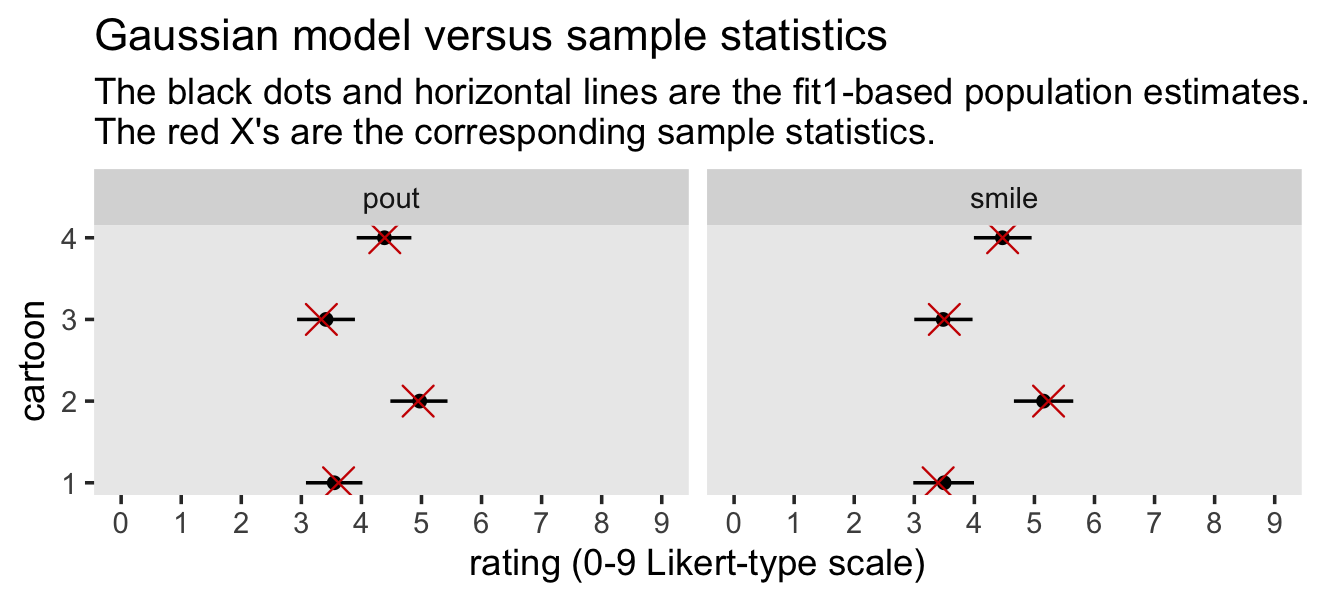
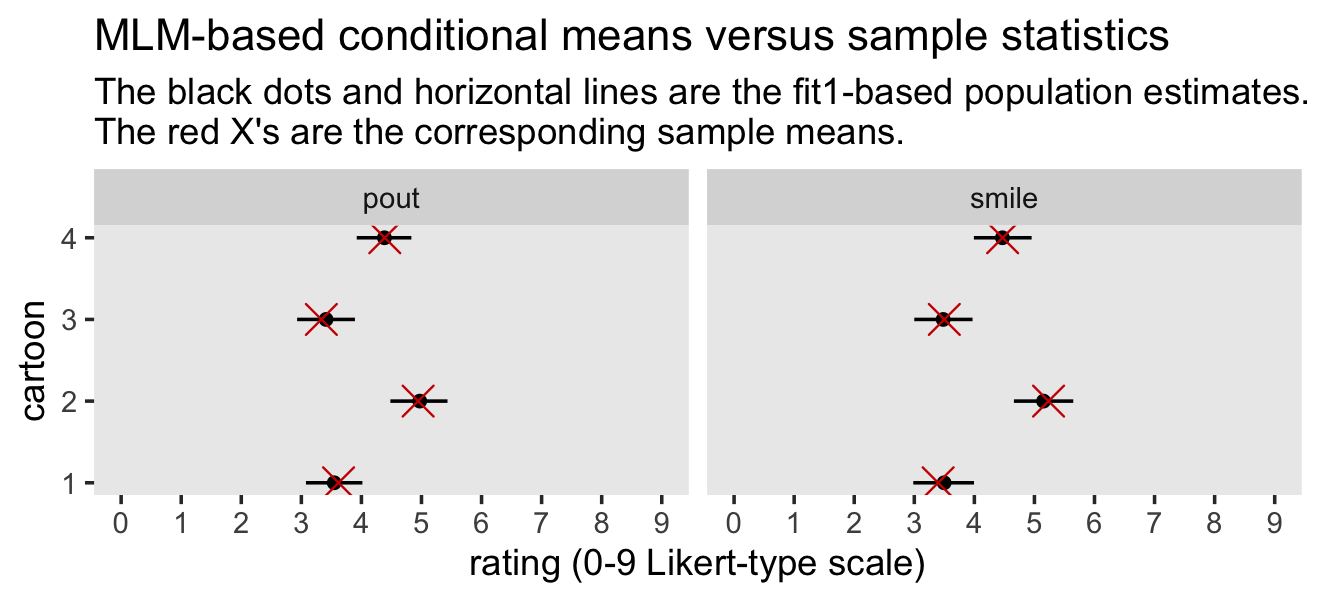
minor prose/code edits

Changed region(s): [[0.0621, 0.03, 0.9008, 0.09], [0.5902, 0.18, 0.7144, 0.24]]

diff --git a/sketches/Wagenmakers-et-al--2016--Albohn-only.md b/sketches/Wagenmakers-et-al--2016--Albohn-only.md
@@ -1,7 +1,7 @@
 Wagenmakers et al (2016), Albohn only
 ================
 A Solomon Kurz
-2022-06-21
+2022-06-22
 
 Using a registered replication report approach, Wagenmakers and
 colleagues (2016; <https://doi.org/10.1177/1745691616674458>) replicated
@@ -9,8 +9,11 @@ Study 1 from the highly-cited paper by Strack, Martin, and Stepper
 (1988; <https://doi.org/10.1037/0022-3514.54.5.768>). In 17 labs across
 several countries, participants were randomized into the *pout* or
 *smile* conditions. The primary variable is the ratings on 4
-moderately-funny cartoons. For the sake of this file, we will analyze
-the data from one of the labs.
+moderately-funny cartoons. Within our experimental design framework, we
+can think of this as a posttest-only two-group design.
+
+For the sake of this file, we will analyze the data from one of the
+labs.
 
 ## Data
 
@@ -72,7 +75,8 @@ glimpse(wagenmakers2016)
 
 The full `wagenmakers2016` data set contains data from 17 reserach labs.
 In this file, we’ll focus on the data collected by the Albohn lab. Here
-we filter the `wagenmakers2016` and save the results as `albohn`.
+we subset the `wagenmakers2016` data frame and save the results as
+`albohn`.
 
 ``` r
 albohn <- wagenmakers2016 %>% 
@@ -106,7 +110,7 @@ albohn <- albohn %>%
   # n = 140 (drop 11 who were 0)
   filter(correct_total > 2)
 
-# new sample size
+# new sample size, by condition
 albohn %>% 
   count(condition)
 ```
@@ -189,8 +193,6 @@ albohn %>%
             n_missing = sum(is.na(rating)))
 ```
 
-    ## `summarise()` has grouped output by 'condition'. You can override using the `.groups` argument.
-
     ## # A tibble: 8 × 8
     ## # Groups:   condition [2]
     ##   condition cartoon  mean    sd   min   max     n n_missing
@@ -204,7 +206,8 @@ albohn %>%
     ## 7         1       3  3.5   2.12     0     8    68         0
     ## 8         1       4  4.47  2.15     0     9    68         0
 
-To get a sense of the participant-level variation in these, we’ll plot.
+To get a sense of the participant- and condition-level variation in
+these, we’ll plot.
 
 ``` r
 albohn %>% 
@@ -233,13 +236,13 @@ So some of the challenges for these data are:
 
 ## Modeling strategy
 
-In this lesson, we’ll explore two broad analytic strategies:
+In this file, we’ll explore two broad analytic strategies:
 
-1)  The first class of strategies will be to model the data as
+1)  The first class of strategies include modeling the data as
     approximately continuous with the conventional Gaussian likelihood.
     After first fitting a simple multilevel model, we will then expand
     to a full mixed-effects location and scale (MELSM) model.
-2)  The second class of strategies will be modeling the data as ordinal.
+2)  The second class of strategies include modeling the data as ordinal.
     After first fitting a multilevel cumulative probit model, we will
     then expand to a cumulative-probit variant of the MELSM.
 
@@ -259,7 +262,7 @@ with the model
 ![
 \\begin{align\*}
 \\text{rating}\_{ijk} & \\sim \\mathcal N(\\mu\_{ijk}, \\sigma\_\\epsilon) \\\\
-\\mu\_{ijk} & = \\beta_0 + \\beta_1 \\text{Condition}\_{ik} + u_i + v\_{0k} + v\_{1k} \\text{Condition}\_{ik} \\\\
+\\mu\_{ijk} & = \\beta_0 + \\beta_1 \\text{condition}\_{ik} + u_i + v\_{0k} + v\_{1k} \\text{condition}\_{ik} \\\\
 u_i & \\sim \\mathcal N(0, \\sigma_u) \\\\
 \\begin{bmatrix} v\_{0k} \\\\ v\_{1k} \\end{bmatrix} & \\sim \\mathcal N \\left ( 
   \\mathbf 0, \\mathbf{SRS}
@@ -267,10 +270,10 @@ u_i & \\sim \\mathcal N(0, \\sigma_u) \\\\
 \\mathbf S & = \\begin{bmatrix} \\sigma\_{0k} \\\\ 1 & \\sigma\_{1k} \\end{bmatrix} \\\\
 \\mathbf R & = \\begin{bmatrix} 1 \\\\ \\rho & 1 \\end{bmatrix},
 \\end{align\*}
-](https://latex.codecogs.com/png.image?%5Cdpi%7B110%7D&space;%5Cbg_white&space;%0A%5Cbegin%7Balign%2A%7D%0A%5Ctext%7Brating%7D_%7Bijk%7D%20%26%20%5Csim%20%5Cmathcal%20N%28%5Cmu_%7Bijk%7D%2C%20%5Csigma_%5Cepsilon%29%20%5C%5C%0A%5Cmu_%7Bijk%7D%20%26%20%3D%20%5Cbeta_0%20%2B%20%5Cbeta_1%20%5Ctext%7BCondition%7D_%7Bik%7D%20%2B%20u_i%20%2B%20v_%7B0k%7D%20%2B%20v_%7B1k%7D%20%5Ctext%7BCondition%7D_%7Bik%7D%20%5C%5C%0Au_i%20%26%20%5Csim%20%5Cmathcal%20N%280%2C%20%5Csigma_u%29%20%5C%5C%0A%5Cbegin%7Bbmatrix%7D%20v_%7B0k%7D%20%5C%5C%20v_%7B1k%7D%20%5Cend%7Bbmatrix%7D%20%26%20%5Csim%20%5Cmathcal%20N%20%5Cleft%20%28%20%0A%20%20%5Cmathbf%200%2C%20%5Cmathbf%7BSRS%7D%0A%20%20%5Cright%29%20%5C%5C%0A%5Cmathbf%20S%20%26%20%3D%20%5Cbegin%7Bbmatrix%7D%20%5Csigma_%7B0k%7D%20%5C%5C%201%20%26%20%5Csigma_%7B1k%7D%20%5Cend%7Bbmatrix%7D%20%5C%5C%0A%5Cmathbf%20R%20%26%20%3D%20%5Cbegin%7Bbmatrix%7D%201%20%5C%5C%20%5Crho%20%26%201%20%5Cend%7Bbmatrix%7D%2C%0A%5Cend%7Balign%2A%7D%0A "
+](https://latex.codecogs.com/png.image?%5Cdpi%7B110%7D&space;%5Cbg_white&space;%0A%5Cbegin%7Balign%2A%7D%0A%5Ctext%7Brating%7D_%7Bijk%7D%20%26%20%5Csim%20%5Cmathcal%20N%28%5Cmu_%7Bijk%7D%2C%20%5Csigma_%5Cepsilon%29%20%5C%5C%0A%5Cmu_%7Bijk%7D%20%26%20%3D%20%5Cbeta_0%20%2B%20%5Cbeta_1%20%5Ctext%7Bcondition%7D_%7Bik%7D%20%2B%20u_i%20%2B%20v_%7B0k%7D%20%2B%20v_%7B1k%7D%20%5Ctext%7Bcondition%7D_%7Bik%7D%20%5C%5C%0Au_i%20%26%20%5Csim%20%5Cmathcal%20N%280%2C%20%5Csigma_u%29%20%5C%5C%0A%5Cbegin%7Bbmatrix%7D%20v_%7B0k%7D%20%5C%5C%20v_%7B1k%7D%20%5Cend%7Bbmatrix%7D%20%26%20%5Csim%20%5Cmathcal%20N%20%5Cleft%20%28%20%0A%20%20%5Cmathbf%200%2C%20%5Cmathbf%7BSRS%7D%0A%20%20%5Cright%29%20%5C%5C%0A%5Cmathbf%20S%20%26%20%3D%20%5Cbegin%7Bbmatrix%7D%20%5Csigma_%7B0k%7D%20%5C%5C%201%20%26%20%5Csigma_%7B1k%7D%20%5Cend%7Bbmatrix%7D%20%5C%5C%0A%5Cmathbf%20R%20%26%20%3D%20%5Cbegin%7Bbmatrix%7D%201%20%5C%5C%20%5Crho%20%26%201%20%5Cend%7Bbmatrix%7D%2C%0A%5Cend%7Balign%2A%7D%0A "
 \begin{align*}
 \text{rating}_{ijk} & \sim \mathcal N(\mu_{ijk}, \sigma_\epsilon) \\
-\mu_{ijk} & = \beta_0 + \beta_1 \text{Condition}_{ik} + u_i + v_{0k} + v_{1k} \text{Condition}_{ik} \\
+\mu_{ijk} & = \beta_0 + \beta_1 \text{condition}_{ik} + u_i + v_{0k} + v_{1k} \text{condition}_{ik} \\
 u_i & \sim \mathcal N(0, \sigma_u) \\
 \begin{bmatrix} v_{0k} \\ v_{1k} \end{bmatrix} & \sim \mathcal N \left ( 
   \mathbf 0, \mathbf{SRS}
@@ -391,7 +394,7 @@ tibble(sd = seq(from = 0, to = 5, by = 0.05)) %>%
 
 <img src="Wagenmakers-et-al--2016--Albohn-only_files/figure-gfm/unnamed-chunk-10-2.png" width="432" />
 
-Notice the restricted range we showed for the
+Notice the restricted range in the plot for the
 ![\\sigma](https://latex.codecogs.com/png.image?%5Cdpi%7B110%7D&space;%5Cbg_white&space;%5Csigma "\sigma")
 prior. Based on [Popoviciu’s
 inequality](https://en.wikipedia.org/wiki/Popoviciu%27s_inequality_on_variances),
@@ -443,7 +446,7 @@ matrix. That would make the full model
 ![
 \\begin{align\*}
 \\text{rating}\_{ijk} & \\sim \\mathcal N(\\mu\_{ijk}, \\sigma\_\\epsilon) \\\\
-\\mu\_{ijk} & = \\beta_0 + \\beta_1 \\text{Condition}\_{ik} + u_i + v\_{0k} + v\_{1k} \\text{Condition}\_{ik} \\\\
+\\mu\_{ijk} & = \\beta_0 + \\beta_1 \\text{condition}\_{ik} + u_i + v\_{0k} + v\_{1k} \\text{condition}\_{ik} \\\\
 u_i & \\sim \\mathcal N(0, \\sigma_u) \\\\
 \\begin{bmatrix} v\_{0k} \\\\ v\_{1k} \\end{bmatrix} & \\sim \\mathcal N(\\mathbf 0, \\mathbf{SRS}) \\\\
 \\mathbf S & = \\begin{bmatrix} \\sigma\_{0k} \\\\ 1 & \\sigma\_{1k} \\end{bmatrix} \\\\
@@ -453,10 +456,10 @@ u_i & \\sim \\mathcal N(0, \\sigma_u) \\\\
 \\sigma\_\\epsilon, \\dots, \\sigma\_{1k} & \\sim \\operatorname{Exponential}(1 / 2.3) \\\\
 \\mathbf R & \\sim \\operatorname{LKJ}(2).
 \\end{align\*}
-](https://latex.codecogs.com/png.image?%5Cdpi%7B110%7D&space;%5Cbg_white&space;%0A%5Cbegin%7Balign%2A%7D%0A%5Ctext%7Brating%7D_%7Bijk%7D%20%26%20%5Csim%20%5Cmathcal%20N%28%5Cmu_%7Bijk%7D%2C%20%5Csigma_%5Cepsilon%29%20%5C%5C%0A%5Cmu_%7Bijk%7D%20%26%20%3D%20%5Cbeta_0%20%2B%20%5Cbeta_1%20%5Ctext%7BCondition%7D_%7Bik%7D%20%2B%20u_i%20%2B%20v_%7B0k%7D%20%2B%20v_%7B1k%7D%20%5Ctext%7BCondition%7D_%7Bik%7D%20%5C%5C%0Au_i%20%26%20%5Csim%20%5Cmathcal%20N%280%2C%20%5Csigma_u%29%20%5C%5C%0A%5Cbegin%7Bbmatrix%7D%20v_%7B0k%7D%20%5C%5C%20v_%7B1k%7D%20%5Cend%7Bbmatrix%7D%20%26%20%5Csim%20%5Cmathcal%20N%28%5Cmathbf%200%2C%20%5Cmathbf%7BSRS%7D%29%20%5C%5C%0A%5Cmathbf%20S%20%26%20%3D%20%5Cbegin%7Bbmatrix%7D%20%5Csigma_%7B0k%7D%20%5C%5C%201%20%26%20%5Csigma_%7B1k%7D%20%5Cend%7Bbmatrix%7D%20%5C%5C%0A%5Cmathbf%20R%20%26%20%3D%20%5Cbegin%7Bbmatrix%7D%201%20%5C%5C%20%5Crho%20%26%201%20%5Cend%7Bbmatrix%7D%20%5C%5C%0A%5Cbeta_0%20%26%20%5Csim%20%5Cmathcal%20N%284.4%2C%201%29%20%5C%5C%20%0A%5Cbeta_1%20%26%20%5Csim%20%5Cmathcal%20N%280%2C%201%29%20%5C%5C%20%0A%5Csigma_%5Cepsilon%2C%20%5Cdots%2C%20%5Csigma_%7B1k%7D%20%26%20%5Csim%20%5Coperatorname%7BExponential%7D%281%20%2F%202.3%29%20%5C%5C%0A%5Cmathbf%20R%20%26%20%5Csim%20%5Coperatorname%7BLKJ%7D%282%29.%0A%5Cend%7Balign%2A%7D%0A "
+](https://latex.codecogs.com/png.image?%5Cdpi%7B110%7D&space;%5Cbg_white&space;%0A%5Cbegin%7Balign%2A%7D%0A%5Ctext%7Brating%7D_%7Bijk%7D%20%26%20%5Csim%20%5Cmathcal%20N%28%5Cmu_%7Bijk%7D%2C%20%5Csigma_%5Cepsilon%29%20%5C%5C%0A%5Cmu_%7Bijk%7D%20%26%20%3D%20%5Cbeta_0%20%2B%20%5Cbeta_1%20%5Ctext%7Bcondition%7D_%7Bik%7D%20%2B%20u_i%20%2B%20v_%7B0k%7D%20%2B%20v_%7B1k%7D%20%5Ctext%7Bcondition%7D_%7Bik%7D%20%5C%5C%0Au_i%20%26%20%5Csim%20%5Cmathcal%20N%280%2C%20%5Csigma_u%29%20%5C%5C%0A%5Cbegin%7Bbmatrix%7D%20v_%7B0k%7D%20%5C%5C%20v_%7B1k%7D%20%5Cend%7Bbmatrix%7D%20%26%20%5Csim%20%5Cmathcal%20N%28%5Cmathbf%200%2C%20%5Cmathbf%7BSRS%7D%29%20%5C%5C%0A%5Cmathbf%20S%20%26%20%3D%20%5Cbegin%7Bbmatrix%7D%20%5Csigma_%7B0k%7D%20%5C%5C%201%20%26%20%5Csigma_%7B1k%7D%20%5Cend%7Bbmatrix%7D%20%5C%5C%0A%5Cmathbf%20R%20%26%20%3D%20%5Cbegin%7Bbmatrix%7D%201%20%5C%5C%20%5Crho%20%26%201%20%5Cend%7Bbmatrix%7D%20%5C%5C%0A%5Cbeta_0%20%26%20%5Csim%20%5Cmathcal%20N%284.4%2C%201%29%20%5C%5C%20%0A%5Cbeta_1%20%26%20%5Csim%20%5Cmathcal%20N%280%2C%201%29%20%5C%5C%20%0A%5Csigma_%5Cepsilon%2C%20%5Cdots%2C%20%5Csigma_%7B1k%7D%20%26%20%5Csim%20%5Coperatorname%7BExponential%7D%281%20%2F%202.3%29%20%5C%5C%0A%5Cmathbf%20R%20%26%20%5Csim%20%5Coperatorname%7BLKJ%7D%282%29.%0A%5Cend%7Balign%2A%7D%0A "
 \begin{align*}
 \text{rating}_{ijk} & \sim \mathcal N(\mu_{ijk}, \sigma_\epsilon) \\
-\mu_{ijk} & = \beta_0 + \beta_1 \text{Condition}_{ik} + u_i + v_{0k} + v_{1k} \text{Condition}_{ik} \\
+\mu_{ijk} & = \beta_0 + \beta_1 \text{condition}_{ik} + u_i + v_{0k} + v_{1k} \text{condition}_{ik} \\
 u_i & \sim \mathcal N(0, \sigma_u) \\
 \begin{bmatrix} v_{0k} \\ v_{1k} \end{bmatrix} & \sim \mathcal N(\mathbf 0, \mathbf{SRS}) \\
 \mathbf S & = \begin{bmatrix} \sigma_{0k} \\ 1 & \sigma_{1k} \end{bmatrix} \\
@@ -501,8 +504,8 @@ This would look like
 ![
 \\begin{align\*}
 \\text{rating}\_{ijk} & \\sim \\mathcal N(\\mu\_{ijk}, \\sigma) \\\\
-\\mu\_{ijk} & = \\beta_0 + \\beta_1 \\text{Condition}\_{ik} + u_i + v\_{0k} + v\_{1k} \\text{Condition}\_{ik} \\\\
-\\log(\\sigma\_{ijk}) & = \\eta_0 + \\eta_1 \\text{Condition}\_{ik} + w_i + x\_{0k} + x\_{1k} \\text{Condition}\_{ik} \\\\
+\\mu\_{ijk} & = \\beta_0 + \\beta_1 \\text{condition}\_{ik} + u_i + v\_{0k} + v\_{1k} \\text{condition}\_{ik} \\\\
+\\log(\\sigma\_{ijk}) & = \\eta_0 + \\eta_1 \\text{condition}\_{ik} + w_i + x\_{0k} + x\_{1k} \\text{condition}\_{ik} \\\\
 u_i & \\sim \\mathcal N(0, \\sigma_u) \\\\
 \\begin{bmatrix} v\_{0k} \\\\ v\_{1k} \\end{bmatrix} & \\sim \\mathcal N(\\mathbf 0, \\mathbf{S_vR_vS_v}) \\\\
 \\mathbf{S_v} & = \\begin{bmatrix} \\sigma\_{0k} \\\\ 1 & \\sigma\_{1k} \\end{bmatrix} \\\\
@@ -512,11 +515,11 @@ w_i & \\sim \\mathcal N(0, \\sigma_w) \\\\
 \\mathbf{S_x} & = \\begin{bmatrix} \\sigma\_{2k} \\\\ 1 & \\sigma\_{3k} \\end{bmatrix} \\\\
 \\mathbf{R_x} & = \\begin{bmatrix} 1 \\\\ \\rho_x & 1 \\end{bmatrix} \\\\
 \\end{align\*}
-](https://latex.codecogs.com/png.image?%5Cdpi%7B110%7D&space;%5Cbg_white&space;%0A%5Cbegin%7Balign%2A%7D%0A%5Ctext%7Brating%7D_%7Bijk%7D%20%26%20%5Csim%20%5Cmathcal%20N%28%5Cmu_%7Bijk%7D%2C%20%5Csigma%29%20%5C%5C%0A%5Cmu_%7Bijk%7D%20%26%20%3D%20%5Cbeta_0%20%2B%20%5Cbeta_1%20%5Ctext%7BCondition%7D_%7Bik%7D%20%2B%20u_i%20%2B%20v_%7B0k%7D%20%2B%20v_%7B1k%7D%20%5Ctext%7BCondition%7D_%7Bik%7D%20%5C%5C%0A%5Clog%28%5Csigma_%7Bijk%7D%29%20%26%20%3D%20%5Ceta_0%20%2B%20%5Ceta_1%20%5Ctext%7BCondition%7D_%7Bik%7D%20%2B%20w_i%20%2B%20x_%7B0k%7D%20%2B%20x_%7B1k%7D%20%5Ctext%7BCondition%7D_%7Bik%7D%20%5C%5C%0Au_i%20%26%20%5Csim%20%5Cmathcal%20N%280%2C%20%5Csigma_u%29%20%5C%5C%0A%5Cbegin%7Bbmatrix%7D%20v_%7B0k%7D%20%5C%5C%20v_%7B1k%7D%20%5Cend%7Bbmatrix%7D%20%26%20%5Csim%20%5Cmathcal%20N%28%5Cmathbf%200%2C%20%5Cmathbf%7BS_vR_vS_v%7D%29%20%5C%5C%0A%5Cmathbf%7BS_v%7D%20%26%20%3D%20%5Cbegin%7Bbmatrix%7D%20%5Csigma_%7B0k%7D%20%5C%5C%201%20%26%20%5Csigma_%7B1k%7D%20%5Cend%7Bbmatrix%7D%20%5C%5C%0A%5Cmathbf%7BR_v%7D%20%26%20%3D%20%5Cbegin%7Bbmatrix%7D%201%20%5C%5C%20%5Crho_v%20%26%201%20%5Cend%7Bbmatrix%7D%20%5C%5C%0Aw_i%20%26%20%5Csim%20%5Cmathcal%20N%280%2C%20%5Csigma_w%29%20%5C%5C%0A%5Cbegin%7Bbmatrix%7D%20x_%7B0k%7D%20%5C%5C%20x_%7B1k%7D%20%5Cend%7Bbmatrix%7D%20%26%20%5Csim%20%5Cmathcal%20N%28%5Cmathbf%200%2C%20%5Cmathbf%7BS_xR_xS_x%7D%29%20%5C%5C%0A%5Cmathbf%7BS_x%7D%20%26%20%3D%20%5Cbegin%7Bbmatrix%7D%20%5Csigma_%7B2k%7D%20%5C%5C%201%20%26%20%5Csigma_%7B3k%7D%20%5Cend%7Bbmatrix%7D%20%5C%5C%0A%5Cmathbf%7BR_x%7D%20%26%20%3D%20%5Cbegin%7Bbmatrix%7D%201%20%5C%5C%20%5Crho_x%20%26%201%20%5Cend%7Bbmatrix%7D%20%5C%5C%0A%5Cend%7Balign%2A%7D%0A "
+](https://latex.codecogs.com/png.image?%5Cdpi%7B110%7D&space;%5Cbg_white&space;%0A%5Cbegin%7Balign%2A%7D%0A%5Ctext%7Brating%7D_%7Bijk%7D%20%26%20%5Csim%20%5Cmathcal%20N%28%5Cmu_%7Bijk%7D%2C%20%5Csigma%29%20%5C%5C%0A%5Cmu_%7Bijk%7D%20%26%20%3D%20%5Cbeta_0%20%2B%20%5Cbeta_1%20%5Ctext%7Bcondition%7D_%7Bik%7D%20%2B%20u_i%20%2B%20v_%7B0k%7D%20%2B%20v_%7B1k%7D%20%5Ctext%7Bcondition%7D_%7Bik%7D%20%5C%5C%0A%5Clog%28%5Csigma_%7Bijk%7D%29%20%26%20%3D%20%5Ceta_0%20%2B%20%5Ceta_1%20%5Ctext%7Bcondition%7D_%7Bik%7D%20%2B%20w_i%20%2B%20x_%7B0k%7D%20%2B%20x_%7B1k%7D%20%5Ctext%7Bcondition%7D_%7Bik%7D%20%5C%5C%0Au_i%20%26%20%5Csim%20%5Cmathcal%20N%280%2C%20%5Csigma_u%29%20%5C%5C%0A%5Cbegin%7Bbmatrix%7D%20v_%7B0k%7D%20%5C%5C%20v_%7B1k%7D%20%5Cend%7Bbmatrix%7D%20%26%20%5Csim%20%5Cmathcal%20N%28%5Cmathbf%200%2C%20%5Cmathbf%7BS_vR_vS_v%7D%29%20%5C%5C%0A%5Cmathbf%7BS_v%7D%20%26%20%3D%20%5Cbegin%7Bbmatrix%7D%20%5Csigma_%7B0k%7D%20%5C%5C%201%20%26%20%5Csigma_%7B1k%7D%20%5Cend%7Bbmatrix%7D%20%5C%5C%0A%5Cmathbf%7BR_v%7D%20%26%20%3D%20%5Cbegin%7Bbmatrix%7D%201%20%5C%5C%20%5Crho_v%20%26%201%20%5Cend%7Bbmatrix%7D%20%5C%5C%0Aw_i%20%26%20%5Csim%20%5Cmathcal%20N%280%2C%20%5Csigma_w%29%20%5C%5C%0A%5Cbegin%7Bbmatrix%7D%20x_%7B0k%7D%20%5C%5C%20x_%7B1k%7D%20%5Cend%7Bbmatrix%7D%20%26%20%5Csim%20%5Cmathcal%20N%28%5Cmathbf%200%2C%20%5Cmathbf%7BS_xR_xS_x%7D%29%20%5C%5C%0A%5Cmathbf%7BS_x%7D%20%26%20%3D%20%5Cbegin%7Bbmatrix%7D%20%5Csigma_%7B2k%7D%20%5C%5C%201%20%26%20%5Csigma_%7B3k%7D%20%5Cend%7Bbmatrix%7D%20%5C%5C%0A%5Cmathbf%7BR_x%7D%20%26%20%3D%20%5Cbegin%7Bbmatrix%7D%201%20%5C%5C%20%5Crho_x%20%26%201%20%5Cend%7Bbmatrix%7D%20%5C%5C%0A%5Cend%7Balign%2A%7D%0A "
 \begin{align*}
 \text{rating}_{ijk} & \sim \mathcal N(\mu_{ijk}, \sigma) \\
-\mu_{ijk} & = \beta_0 + \beta_1 \text{Condition}_{ik} + u_i + v_{0k} + v_{1k} \text{Condition}_{ik} \\
-\log(\sigma_{ijk}) & = \eta_0 + \eta_1 \text{Condition}_{ik} + w_i + x_{0k} + x_{1k} \text{Condition}_{ik} \\
+\mu_{ijk} & = \beta_0 + \beta_1 \text{condition}_{ik} + u_i + v_{0k} + v_{1k} \text{condition}_{ik} \\
+\log(\sigma_{ijk}) & = \eta_0 + \eta_1 \text{condition}_{ik} + w_i + x_{0k} + x_{1k} \text{condition}_{ik} \\
 u_i & \sim \mathcal N(0, \sigma_u) \\
 \begin{bmatrix} v_{0k} \\ v_{1k} \end{bmatrix} & \sim \mathcal N(\mathbf 0, \mathbf{S_vR_vS_v}) \\
 \mathbf{S_v} & = \begin{bmatrix} \sigma_{0k} \\ 1 & \sigma_{1k} \end{bmatrix} \\
@@ -1039,8 +1042,8 @@ fitted(fit1,
              shape = 4, size = 4, color = "red3") +
   scale_x_continuous("rating (0-9 Likert-type scale)", 
                      breaks = 0:9, limits = c(0, 9)) +
-  labs(title = "Gaussian model versus sample statistics",
-       subtitle = "The black dots and horizontal lines are the fit1-based population estimates.\nThe red X's are the corresponding sample statistics.") +
+  labs(title = "MLM-based conditional means versus sample statistics",
+       subtitle = "The black dots and horizontal lines are the fit1-based population estimates.\nThe red X's are the corresponding sample means.") +
   facet_wrap(~ conditionf) +
   theme(panel.grid = element_blank())
 ```
@@ -1093,7 +1096,7 @@ With **brms**, there are multiple ways to model data with ordinal
 likelihoods. In the next sections, we’ll practice with the cumulative
 probit likelihood, which has desirable qualities for the data at hand.
 Though we won’t do so, here, it wouldn’t be unreasonable to use the
-cumulative logit framework, instead.
+cumulative-*logit* framework, instead.
 
 ### Conventional multilevel ordinal model.
 
@@ -1157,16 +1160,16 @@ the model
 ![
 \\begin{align\*}
 p(\\text{ratingf} = l \| \\{ \\tau_l \\}, \\mu\_{ijk}, \\alpha = 1) & = \\Phi(\\alpha\[\\tau_l - \\mu\_{ijk}\]) - \\Phi(\\alpha\[\\tau\_{l - 1} - \\mu\_{ijk}\]) \\\\
-\\mu\_{ijk} & = 0 + \\beta_1 \\text{Condition}\_{ik} + u_i + v\_{0k} + v\_{1k} \\text{Condition}\_{ik} \\\\ 
+\\mu\_{ijk} & = 0 + \\beta_1 \\text{condition}\_{ik} + u_i + v\_{0k} + v\_{1k} \\text{condition}\_{ik} \\\\ 
 u_i & \\sim \\mathcal N(0, \\sigma_u) \\\\
 \\begin{bmatrix} v\_{0k} \\\\ v\_{1k} \\end{bmatrix} & \\sim \\mathcal N(\\mathbf 0, \\mathbf{SRS}) \\\\
 \\mathbf S & = \\begin{bmatrix} \\sigma\_{0k} \\\\ 1 & \\sigma\_{1k} \\end{bmatrix} \\\\
 \\mathbf R & = \\begin{bmatrix} 1 \\\\ \\rho & 1 \\end{bmatrix}, \\\\
 \\end{align\*}
-](https://latex.codecogs.com/png.image?%5Cdpi%7B110%7D&space;%5Cbg_white&space;%0A%5Cbegin%7Balign%2A%7D%0Ap%28%5Ctext%7Bratingf%7D%20%3D%20l%20%7C%20%5C%7B%20%5Ctau_l%20%5C%7D%2C%20%5Cmu_%7Bijk%7D%2C%20%5Calpha%20%3D%201%29%20%26%20%3D%20%5CPhi%28%5Calpha%5B%5Ctau_l%20-%20%5Cmu_%7Bijk%7D%5D%29%20-%20%5CPhi%28%5Calpha%5B%5Ctau_%7Bl%20-%201%7D%20-%20%5Cmu_%7Bijk%7D%5D%29%20%5C%5C%0A%5Cmu_%7Bijk%7D%20%26%20%3D%200%20%2B%20%5Cbeta_1%20%5Ctext%7BCondition%7D_%7Bik%7D%20%2B%20u_i%20%2B%20v_%7B0k%7D%20%2B%20v_%7B1k%7D%20%5Ctext%7BCondition%7D_%7Bik%7D%20%5C%5C%20%0Au_i%20%26%20%5Csim%20%5Cmathcal%20N%280%2C%20%5Csigma_u%29%20%5C%5C%0A%5Cbegin%7Bbmatrix%7D%20v_%7B0k%7D%20%5C%5C%20v_%7B1k%7D%20%5Cend%7Bbmatrix%7D%20%26%20%5Csim%20%5Cmathcal%20N%28%5Cmathbf%200%2C%20%5Cmathbf%7BSRS%7D%29%20%5C%5C%0A%5Cmathbf%20S%20%26%20%3D%20%5Cbegin%7Bbmatrix%7D%20%5Csigma_%7B0k%7D%20%5C%5C%201%20%26%20%5Csigma_%7B1k%7D%20%5Cend%7Bbmatrix%7D%20%5C%5C%0A%5Cmathbf%20R%20%26%20%3D%20%5Cbegin%7Bbmatrix%7D%201%20%5C%5C%20%5Crho%20%26%201%20%5Cend%7Bbmatrix%7D%2C%20%5C%5C%0A%5Cend%7Balign%2A%7D%0A "
+](https://latex.codecogs.com/png.image?%5Cdpi%7B110%7D&space;%5Cbg_white&space;%0A%5Cbegin%7Balign%2A%7D%0Ap%28%5Ctext%7Bratingf%7D%20%3D%20l%20%7C%20%5C%7B%20%5Ctau_l%20%5C%7D%2C%20%5Cmu_%7Bijk%7D%2C%20%5Calpha%20%3D%201%29%20%26%20%3D%20%5CPhi%28%5Calpha%5B%5Ctau_l%20-%20%5Cmu_%7Bijk%7D%5D%29%20-%20%5CPhi%28%5Calpha%5B%5Ctau_%7Bl%20-%201%7D%20-%20%5Cmu_%7Bijk%7D%5D%29%20%5C%5C%0A%5Cmu_%7Bijk%7D%20%26%20%3D%200%20%2B%20%5Cbeta_1%20%5Ctext%7Bcondition%7D_%7Bik%7D%20%2B%20u_i%20%2B%20v_%7B0k%7D%20%2B%20v_%7B1k%7D%20%5Ctext%7Bcondition%7D_%7Bik%7D%20%5C%5C%20%0Au_i%20%26%20%5Csim%20%5Cmathcal%20N%280%2C%20%5Csigma_u%29%20%5C%5C%0A%5Cbegin%7Bbmatrix%7D%20v_%7B0k%7D%20%5C%5C%20v_%7B1k%7D%20%5Cend%7Bbmatrix%7D%20%26%20%5Csim%20%5Cmathcal%20N%28%5Cmathbf%200%2C%20%5Cmathbf%7BSRS%7D%29%20%5C%5C%0A%5Cmathbf%20S%20%26%20%3D%20%5Cbegin%7Bbmatrix%7D%20%5Csigma_%7B0k%7D%20%5C%5C%201%20%26%20%5Csigma_%7B1k%7D%20%5Cend%7Bbmatrix%7D%20%5C%5C%0A%5Cmathbf%20R%20%26%20%3D%20%5Cbegin%7Bbmatrix%7D%201%20%5C%5C%20%5Crho%20%26%201%20%5Cend%7Bbmatrix%7D%2C%20%5C%5C%0A%5Cend%7Balign%2A%7D%0A "
 \begin{align*}
 p(\text{ratingf} = l | \{ \tau_l \}, \mu_{ijk}, \alpha = 1) & = \Phi(\alpha[\tau_l - \mu_{ijk}]) - \Phi(\alpha[\tau_{l - 1} - \mu_{ijk}]) \\
-\mu_{ijk} & = 0 + \beta_1 \text{Condition}_{ik} + u_i + v_{0k} + v_{1k} \text{Condition}_{ik} \\ 
+\mu_{ijk} & = 0 + \beta_1 \text{condition}_{ik} + u_i + v_{0k} + v_{1k} \text{condition}_{ik} \\ 
 u_i & \sim \mathcal N(0, \sigma_u) \\
 \begin{bmatrix} v_{0k} \\ v_{1k} \end{bmatrix} & \sim \mathcal N(\mathbf 0, \mathbf{SRS}) \\
 \mathbf S & = \begin{bmatrix} \sigma_{0k} \\ 1 & \sigma_{1k} \end{bmatrix} \\
@@ -1338,8 +1341,8 @@ model as
 ![
 \\begin{align\*}
 p(\\text{ratingf} = l \| \\{ \\tau_l \\}, \\mu\_{ijk}, \\alpha\_{ijk}) & = \\Phi(\\alpha\_{ijk}\[\\tau_l - \\mu\_{ijk}\]) - \\Phi(\\alpha\_{ijk}\[\\tau\_{l - 1} - \\mu\_{ijk}\]) \\\\
-\\mu\_{ijk} & = 0 + \\beta_1 \\text{Condition}\_{ik} + u_i + v\_{0k} + v\_{1k} \\text{Condition}\_{ik} \\\\ 
-\\log(\\alpha\_{ijk}) & = 0 + \\eta_1 \\text{Condition}\_{ik} + w_i + x\_{0k} + x\_{1k} \\text{Condition}\_{ik} \\\\ 
+\\mu\_{ijk} & = 0 + \\beta_1 \\text{condition}\_{ik} + u_i + v\_{0k} + v\_{1k} \\text{condition}\_{ik} \\\\ 
+\\log(\\alpha\_{ijk}) & = 0 + \\eta_1 \\text{condition}\_{ik} + w_i + x\_{0k} + x\_{1k} \\text{condition}\_{ik} \\\\ 
 u_i & \\sim \\mathcal N(0, \\sigma_u) \\\\
 \\begin{bmatrix} v\_{0k} \\\\ v\_{1k} \\end{bmatrix} & \\sim \\mathcal N(\\mathbf 0, \\mathbf{S_vR_vS_v}) \\\\
 \\mathbf{S_v} & = \\begin{bmatrix} \\sigma\_{0k} \\\\ 1 & \\sigma\_{1k} \\end{bmatrix} \\\\
@@ -1349,11 +1352,11 @@ w_i & \\sim \\mathcal N(0, \\sigma_w) \\\\
 \\mathbf{S_x} & = \\begin{bmatrix} \\sigma\_{2k} \\\\ 1 & \\sigma\_{3k} \\end{bmatrix} \\\\
 \\mathbf{R_x} & = \\begin{bmatrix} 1 \\\\ \\rho_x & 1 \\end{bmatrix}, \\\\
 \\end{align\*}
-](https://latex.codecogs.com/png.image?%5Cdpi%7B110%7D&space;%5Cbg_white&space;%0A%5Cbegin%7Balign%2A%7D%0Ap%28%5Ctext%7Bratingf%7D%20%3D%20l%20%7C%20%5C%7B%20%5Ctau_l%20%5C%7D%2C%20%5Cmu_%7Bijk%7D%2C%20%5Calpha_%7Bijk%7D%29%20%26%20%3D%20%5CPhi%28%5Calpha_%7Bijk%7D%5B%5Ctau_l%20-%20%5Cmu_%7Bijk%7D%5D%29%20-%20%5CPhi%28%5Calpha_%7Bijk%7D%5B%5Ctau_%7Bl%20-%201%7D%20-%20%5Cmu_%7Bijk%7D%5D%29%20%5C%5C%0A%5Cmu_%7Bijk%7D%20%26%20%3D%200%20%2B%20%5Cbeta_1%20%5Ctext%7BCondition%7D_%7Bik%7D%20%2B%20u_i%20%2B%20v_%7B0k%7D%20%2B%20v_%7B1k%7D%20%5Ctext%7BCondition%7D_%7Bik%7D%20%5C%5C%20%0A%5Clog%28%5Calpha_%7Bijk%7D%29%20%26%20%3D%200%20%2B%20%5Ceta_1%20%5Ctext%7BCondition%7D_%7Bik%7D%20%2B%20w_i%20%2B%20x_%7B0k%7D%20%2B%20x_%7B1k%7D%20%5Ctext%7BCondition%7D_%7Bik%7D%20%5C%5C%20%0Au_i%20%26%20%5Csim%20%5Cmathcal%20N%280%2C%20%5Csigma_u%29%20%5C%5C%0A%5Cbegin%7Bbmatrix%7D%20v_%7B0k%7D%20%5C%5C%20v_%7B1k%7D%20%5Cend%7Bbmatrix%7D%20%26%20%5Csim%20%5Cmathcal%20N%28%5Cmathbf%200%2C%20%5Cmathbf%7BS_vR_vS_v%7D%29%20%5C%5C%0A%5Cmathbf%7BS_v%7D%20%26%20%3D%20%5Cbegin%7Bbmatrix%7D%20%5Csigma_%7B0k%7D%20%5C%5C%201%20%26%20%5Csigma_%7B1k%7D%20%5Cend%7Bbmatrix%7D%20%5C%5C%0A%5Cmathbf%7BR_v%7D%20%26%20%3D%20%5Cbegin%7Bbmatrix%7D%201%20%5C%5C%20%5Crho_v%20%26%201%20%5Cend%7Bbmatrix%7D%20%5C%5C%0Aw_i%20%26%20%5Csim%20%5Cmathcal%20N%280%2C%20%5Csigma_w%29%20%5C%5C%0A%5Cbegin%7Bbmatrix%7D%20x_%7B0k%7D%20%5C%5C%20x_%7B1k%7D%20%5Cend%7Bbmatrix%7D%20%26%20%5Csim%20%5Cmathcal%20N%28%5Cmathbf%200%2C%20%5Cmathbf%7BS_xR_xS_x%7D%29%20%5C%5C%0A%5Cmathbf%7BS_x%7D%20%26%20%3D%20%5Cbegin%7Bbmatrix%7D%20%5Csigma_%7B2k%7D%20%5C%5C%201%20%26%20%5Csigma_%7B3k%7D%20%5Cend%7Bbmatrix%7D%20%5C%5C%0A%5Cmathbf%7BR_x%7D%20%26%20%3D%20%5Cbegin%7Bbmatrix%7D%201%20%5C%5C%20%5Crho_x%20%26%201%20%5Cend%7Bbmatrix%7D%2C%20%5C%5C%0A%5Cend%7Balign%2A%7D%0A "
+](https://latex.codecogs.com/png.image?%5Cdpi%7B110%7D&space;%5Cbg_white&space;%0A%5Cbegin%7Balign%2A%7D%0Ap%28%5Ctext%7Bratingf%7D%20%3D%20l%20%7C%20%5C%7B%20%5Ctau_l%20%5C%7D%2C%20%5Cmu_%7Bijk%7D%2C%20%5Calpha_%7Bijk%7D%29%20%26%20%3D%20%5CPhi%28%5Calpha_%7Bijk%7D%5B%5Ctau_l%20-%20%5Cmu_%7Bijk%7D%5D%29%20-%20%5CPhi%28%5Calpha_%7Bijk%7D%5B%5Ctau_%7Bl%20-%201%7D%20-%20%5Cmu_%7Bijk%7D%5D%29%20%5C%5C%0A%5Cmu_%7Bijk%7D%20%26%20%3D%200%20%2B%20%5Cbeta_1%20%5Ctext%7Bcondition%7D_%7Bik%7D%20%2B%20u_i%20%2B%20v_%7B0k%7D%20%2B%20v_%7B1k%7D%20%5Ctext%7Bcondition%7D_%7Bik%7D%20%5C%5C%20%0A%5Clog%28%5Calpha_%7Bijk%7D%29%20%26%20%3D%200%20%2B%20%5Ceta_1%20%5Ctext%7Bcondition%7D_%7Bik%7D%20%2B%20w_i%20%2B%20x_%7B0k%7D%20%2B%20x_%7B1k%7D%20%5Ctext%7Bcondition%7D_%7Bik%7D%20%5C%5C%20%0Au_i%20%26%20%5Csim%20%5Cmathcal%20N%280%2C%20%5Csigma_u%29%20%5C%5C%0A%5Cbegin%7Bbmatrix%7D%20v_%7B0k%7D%20%5C%5C%20v_%7B1k%7D%20%5Cend%7Bbmatrix%7D%20%26%20%5Csim%20%5Cmathcal%20N%28%5Cmathbf%200%2C%20%5Cmathbf%7BS_vR_vS_v%7D%29%20%5C%5C%0A%5Cmathbf%7BS_v%7D%20%26%20%3D%20%5Cbegin%7Bbmatrix%7D%20%5Csigma_%7B0k%7D%20%5C%5C%201%20%26%20%5Csigma_%7B1k%7D%20%5Cend%7Bbmatrix%7D%20%5C%5C%0A%5Cmathbf%7BR_v%7D%20%26%20%3D%20%5Cbegin%7Bbmatrix%7D%201%20%5C%5C%20%5Crho_v%20%26%201%20%5Cend%7Bbmatrix%7D%20%5C%5C%0Aw_i%20%26%20%5Csim%20%5Cmathcal%20N%280%2C%20%5Csigma_w%29%20%5C%5C%0A%5Cbegin%7Bbmatrix%7D%20x_%7B0k%7D%20%5C%5C%20x_%7B1k%7D%20%5Cend%7Bbmatrix%7D%20%26%20%5Csim%20%5Cmathcal%20N%28%5Cmathbf%200%2C%20%5Cmathbf%7BS_xR_xS_x%7D%29%20%5C%5C%0A%5Cmathbf%7BS_x%7D%20%26%20%3D%20%5Cbegin%7Bbmatrix%7D%20%5Csigma_%7B2k%7D%20%5C%5C%201%20%26%20%5Csigma_%7B3k%7D%20%5Cend%7Bbmatrix%7D%20%5C%5C%0A%5Cmathbf%7BR_x%7D%20%26%20%3D%20%5Cbegin%7Bbmatrix%7D%201%20%5C%5C%20%5Crho_x%20%26%201%20%5Cend%7Bbmatrix%7D%2C%20%5C%5C%0A%5Cend%7Balign%2A%7D%0A "
 \begin{align*}
 p(\text{ratingf} = l | \{ \tau_l \}, \mu_{ijk}, \alpha_{ijk}) & = \Phi(\alpha_{ijk}[\tau_l - \mu_{ijk}]) - \Phi(\alpha_{ijk}[\tau_{l - 1} - \mu_{ijk}]) \\
-\mu_{ijk} & = 0 + \beta_1 \text{Condition}_{ik} + u_i + v_{0k} + v_{1k} \text{Condition}_{ik} \\ 
-\log(\alpha_{ijk}) & = 0 + \eta_1 \text{Condition}_{ik} + w_i + x_{0k} + x_{1k} \text{Condition}_{ik} \\ 
+\mu_{ijk} & = 0 + \beta_1 \text{condition}_{ik} + u_i + v_{0k} + v_{1k} \text{condition}_{ik} \\ 
+\log(\alpha_{ijk}) & = 0 + \eta_1 \text{condition}_{ik} + w_i + x_{0k} + x_{1k} \text{condition}_{ik} \\ 
 u_i & \sim \mathcal N(0, \sigma_u) \\
 \begin{bmatrix} v_{0k} \\ v_{1k} \end{bmatrix} & \sim \mathcal N(\mathbf 0, \mathbf{S_vR_vS_v}) \\
 \mathbf{S_v} & = \begin{bmatrix} \sigma_{0k} \\ 1 & \sigma_{1k} \end{bmatrix} \\
@@ -1673,7 +1676,7 @@ fixef(fit3)["condition", ] %>% round(digits = 2)
     ##      0.06      0.19     -0.30      0.45
 
 Thus, the overall effect of the smile versus pout condition is a modest
-standardized mean difference of 0.06, 95% CI \[-0.29, 0.42\]. To get the
+standardized mean difference of 0.06, 95% CI \[-0.30, 0.45\]. To get the
 cartoon-specific effect size,
 ![d_k](https://latex.codecogs.com/png.image?%5Cdpi%7B110%7D&space;%5Cbg_white&space;d_k "d_k"),
 it’s probably easiest to use the `coef()` approach.
@@ -1859,8 +1862,6 @@ rbind(f[, 1, ],
   group_by(name) %>% 
   mean_qi(mu)
 ```
-
-    ## `summarise()` has grouped output by 'draw'. You can override using the `.groups` argument.
 
     ## # A tibble: 3 × 7
     ##   name     mu .lower .upper .width .point .interval
@@ -2074,7 +2075,7 @@ unstandardized_means %>%
   scale_x_continuous("rating (0-9 Likert-type scale)", 
                      breaks = 0:9, limits = c(0, 9)) +
   labs(title = "Distributional cumulative-probit model versus sample statistics",
-       subtitle = "The black dots and horizontal lines are the fit4-based population estimates.\nThe red X's are the corresponding sample statistics.") +
+       subtitle = "The black dots and horizontal lines are the fit4-based population estimates.\nThe red X's are the corresponding sample means.") +
   facet_wrap(~ condition) +
   theme(panel.grid = element_blank())
 ```
@@ -2117,7 +2118,7 @@ p1 + p2 +
 <img src="Wagenmakers-et-al--2016--Albohn-only_files/figure-gfm/unnamed-chunk-47-1.png" width="672" />
 
 Both versions of the cumulative-probit model do a great job simulating
-new data that have the same basic characteristics as the empirical data.
+new data boasting the same basic characteristics as the empirical data.
 Both models respected the ordinal nature of the data, including the
 lower and upper limits. They also respected the asymmetric shape of the
 overall distribution.
